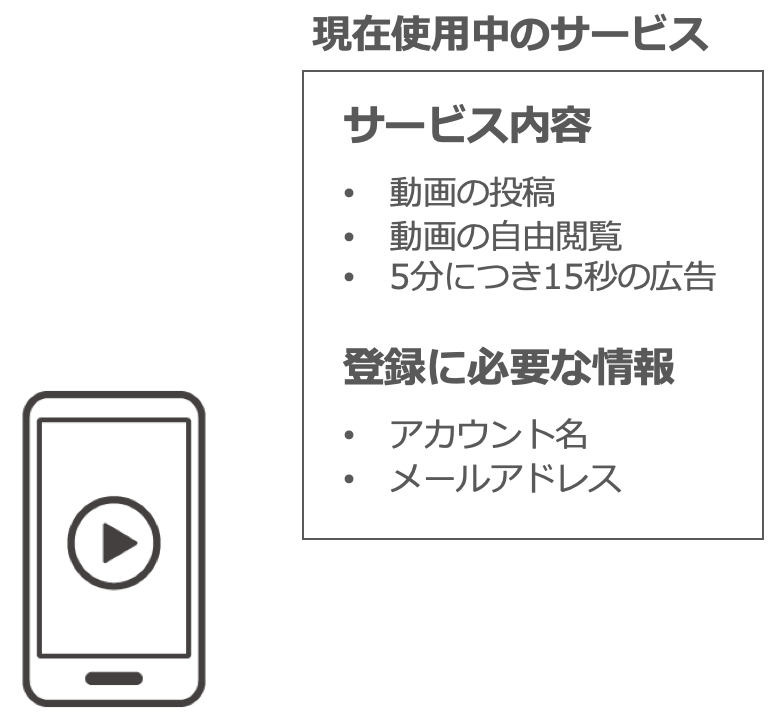
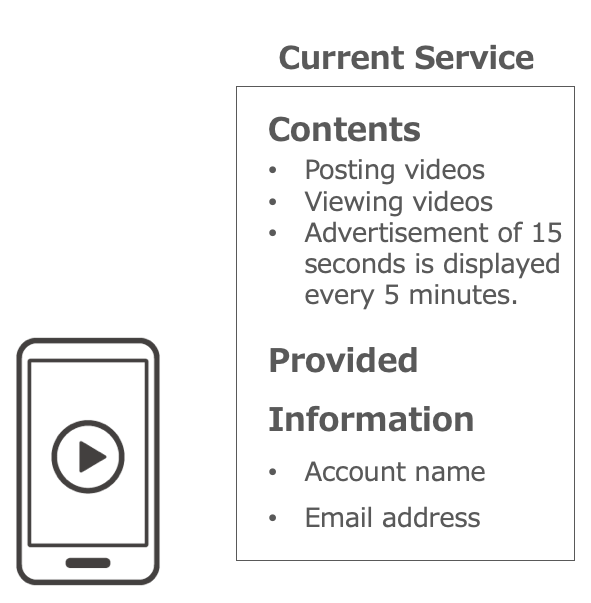
add ver2

diff --git a/en/privacy.md b/en/privacy.md
@@ -1,4 +1,4 @@
-「プライバシー意識の評価」に関する質問項目
+Question items about Privacy Concern
 ---
 14. I would feel safe giving (the information) to online companies.[IUIPC]
     - strongly disagree(1)
@@ -40,7 +40,7 @@
     - somewhat agree(5)
     - agree(6)
     - strongly agree(7)
-19. オンラインプライバシーは、一目瞭然で目立つような開示にすべきである[IUIPC]
+19. A good consumer online privacy policy should have a clear and conspicuous disclosure.[IUIPC]
     - strongly disagree(1)
     - disagree(2)
     - somewhat disagree(3)
@@ -48,7 +48,7 @@
     - somewhat agree(5)
     - agree(6)
     - strongly agree(7)
-20. オンラインで情報を求めている企業は、データの収集、処理、用途を開示すべきだ[IUIPC]
+20. Companies seeking information online should dis- close the way the data are collected, processed, and used.[IUIPC]
     - strongly disagree(1)
     - disagree(2)
     - somewhat disagree(3)
@@ -56,7 +56,7 @@
     - somewhat agree(5)
     - agree(6)
     - strongly agree(7)
-21. 私の価値観においては、個人情報がどのように使われるべきにについて理解し、危惧していることは重要である[IUIPC]
+21. It is very important to me that I am aware and knowl- edgeable about how my personal information will be used.[IUIPC]
     - strongly disagree(1)
     - disagree(2)
     - somewhat disagree(3)
@@ -64,7 +64,7 @@
     - somewhat agree(5)
     - agree(6)
     - strongly agree(7)
-22. 自分は、オンライン上で自分が発信した情報を見ることができる人を把握している[IPSA]
+22. I know exactly who is able to view my currently shared information online.[IPSA]
     - strongly disagree(1)
     - disagree(2)
     - somewhat disagree(3)
@@ -72,7 +72,7 @@
     - somewhat agree(5)
     - agree(6)
     - strongly agree(7)
-23. 自分にあったプライバシー設定をするのは、容易であると感じる[IPSA]
+23. I think privacy control settings that suit me are easy to use.[IPSA]
     - strongly disagree(1)
     - disagree(2)
     - somewhat disagree(3)
@@ -80,7 +80,7 @@
     - somewhat agree(5)
     - agree(6)
     - strongly agree(7)
-24. 自分のプライバシーを保護するための方法や知識は十分有していると信じている[IPSA]
+24. I believe I have good knowledge and skills on how to protect my privacy.[IPSA]
     - strongly disagree(1)
     - disagree(2)
     - somewhat disagree(3)
@@ -88,7 +88,7 @@
     - somewhat agree(5)
     - agree(6)
     - strongly agree(7)
-25. プライバシー設定を変更することで、自分が発信した情報を見ることができる人を自由に制限することができる[IPSA]
+25. I know how to configure my privacy settings so that only selected people can see my shared information.[IPSA]
     - strongly disagree(1)
     - disagree(2)
     - somewhat disagree(3)

diff --git a/en/demographic.md b/en/demographic.md
@@ -1,24 +1,24 @@
-デモグラフィック情報
+Question items about Covariates
 ---
-32. あなたの性別を教えてください
-    - 男性
-    - 女性
-33. あなたの年齢を教えてください
-    - 19歳以下
-    - 20代
-    - 30代
-    - 40代
-    - 50代
-    - 60歳以上
-34. SNSを使用しているか教えてください
-    - 使用しているまたはかつて使用していた
-    - 使用していない
-35. インターネットやスマートフォンの操作にどの程度習熟しているか教えてください
-    - 習熟していない
-    - やや習熟していない
-    - どちらとも言えない
-    - やや習熟している
-    - 習熟している
-36. あなたは、YouTubeを使ったことはありますか？
-    - はい
-    - いいえ
+32. Please tell me your gender.
+    - Male
+    - Female
+33. Please tell me your age.
+    - Under 19
+    - 20’s
+    - 30’s
+    - 40’s
+    - 50’s
+    - 60 over
+34. Please tell me if you use SNS
+    - Using or formerly using
+    - Not using
+35. Please tell us how well you are familiar with Internet and smartphone operations
+    - Very nonproficient
+    - Nonproficient
+    - Neutral
+    - Proficient
+    - Very proficient
+36. Have you ever used YouTube?
+    - Yes
+    - No

diff --git a/en/behavioralintention.md b/en/behavioralintention.md
@@ -24,35 +24,35 @@ Question items about Behavioral Intention
  - Providing privacy information is
    - Never(1)
    - Rarely(2)
-   - Not sometimes(3)
-   - Neutral(4)
-   - Sometimes(5)
+   - Occasionally(3)
+   - Sometimes(4)
+   - Frequently(5)
    - Usually(6)
-   - Always(7)
+   - Every time(7)
 27. May you provide privacy information about this plan change?
  - Providing privacy information is
    - Never(1)
    - Rarely(2)
-   - Not sometimes(3)
-   - Neutral(4)
-   - Sometimes(5)
+   - Occasionally(3)
+   - Sometimes(4)
+   - Frequently(5)
    - Usually(6)
-   - Always(7)
+   - Every time(7)
 28. Are you willing to provide privacy information regarding this plan change?
  - Providing privacy information is
    - Never(1)
    - Rarely(2)
-   - Not sometimes(3)
-   - Neutral(4)
-   - Sometimes(5)
+   - Occasionally(3)
+   - Sometimes(4)
+   - Frequently(5)
    - Usually(6)
-   - Always(7)
+   - Every time(7)
 29. Can you provide privacy information about this plan change?
  - Providing privacy information is
    - Never(1)
    - Rarely(2)
-   - Not sometimes(3)
-   - Neutral(4)
-   - Sometimes(5)
+   - Occasionally(3)
+   - Sometimes(4)
+   - Frequently(5)
    - Usually(6)
-   - Always(7)
+   - Every time(7)

diff --git a/en/README.md b/en/README.md
@@ -1,8 +1,7 @@
-# 便益評価尺度を用いたプライバシー情報開示における合意形成プロセスに関する質問項目
+# Question items about An Investigative Study of Consensus-Building Process in Privacy Disclosure Using Benefit Scale
 
-- [「便益の評価」に関する質問項目(Q1-13)](benefit.md)
-- [「プライバシー意識の評価」に関する質問項目(Q14-25)](./privacy.md)
-- [「行動意図の評価」に関する質問項目(Q26-29)](./behavioralintention.md)
-- [「サービスの理解度」に関する質問項目(Q31)](./service.md)
-- [「基本情報」に関する質問項目（Q32-Q36)](./demographic.md)
-
+- [ Question items about Perceived Benefit(Q1-13)](benefit.md)
+- [ Question items about Privacy Concern(Q14-25)](./privacy.md)
+- [ Question items about Behavioral Intention(Q26-29)](./behavioralintention.md)
+- [ Question items about Understanding of Services(Q31)](./service.md)
+- [ Question items about Covariates（Q32-Q36)](./demographic.md)

diff --git a/en/service.md b/en/service.md
@@ -2,9 +2,9 @@ Question items about Understanding of Services
 ---
 31. Check out all the features you've used on YouTube (Please check all that apply.).
    - Posting videos
-   - Downloading of videos(offline playback)
-   - Rearranging the popularity ranking of posted videos
+   - Downloading videos(offline playback)
+   - Sorting videos in popularity
    - Commenting for posted videos
-   - Registering a video contributor's channel
-   - Displaying recommendation video for you
+   - Registering a video poster's channel
+   - Displaying recommendation video to you
    - Hiding advertisements
